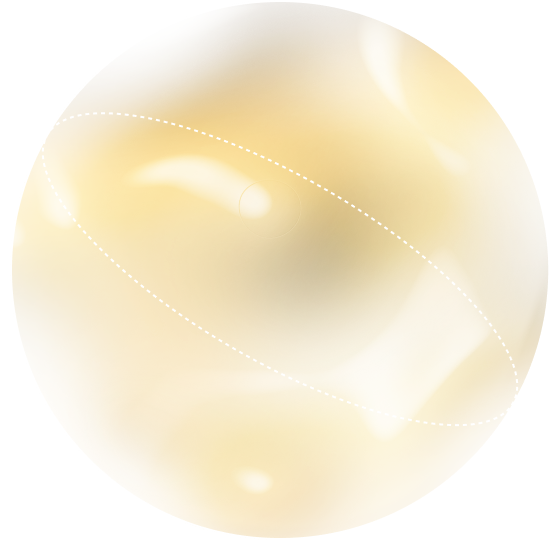
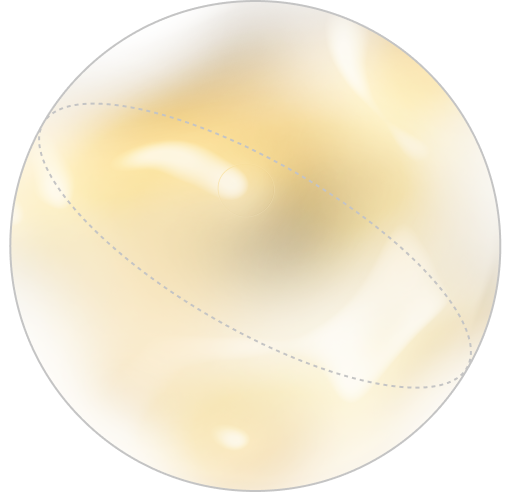
feat: create home-service-section

diff --git a/src/components/home/HomeServiceSection.vue b/src/components/home/HomeServiceSection.vue
@@ -1,0 +1,68 @@
+<script setup>
+import waveImage from '@/assets/image/global/frame_gold-wave.png'
+import imageCube from '@/assets/image/home/image_cube-white-background.png'
+import imagePentagon from '@/assets/image/home/image_pentagon-white-background.png'
+import imagKohakuAndSphere from '@/assets/image/home/image_kohaku-and-sphere.png'
+</script>
+<template>
+  <div class="home__section">
+    <div class="service-section">
+      <div class="service-section__title title-section">
+        <div class="title-section__image-and-title">
+          <img class="title-section__image" :src="waveImage" alt="wave" />
+          <h2 class="title-section__title font-1">SERVICE</h2>
+        </div>
+        <p class="title-section__text font-7">
+          你的創新概念準備起跑了嗎？讓琥白幫助您的願景步伐穩健的實現！
+        </p>
+      </div>
+
+      <div class="service-section__content content-section">
+        <div v-for="item in steps" :key="item.step" class="content-section__container">
+          <div class="content-section__image-and-line">
+            <img :src="item.image" :alt="item.title" class="content-section__image" />
+            <div v-if="item.step === 1" class="content-section__line"></div>
+          </div>
+
+          <div class="content-section__description">
+            <span class="description-section__step font-3">STEP{{ item.step }}</span>
+            <span class="description-section__title font-3">{{ item.title }}</span>
+            <span class="description-section__text font-7">{{ item.text }}</span>
+          </div>
+        </div>
+      </div>
+    </div>
+  </div>
+</template>
+
+<style src="@/assets/scss/home/_home-service-section.scss"></style>
+
+<script>
+export default {
+  name: 'HomeServiceSection',
+  data() {
+    return {
+      steps: [
+        {
+          step: 1,
+          title: '需求研究',
+          text: '首先深入了解需求，從場域、使用者與現實情境，找出問題核心！根據這些發現，為您量身打造解決方案。',
+          image: imageCube
+        },
+        {
+          step: 2,
+          title: '概念設計',
+          text: '進行腦力激盪，構建精彩的原型，接著持續調整與改良，確保這些點子能夠真正幫助您實現目標。',
+          image: imagePentagon
+        },
+        {
+          step: 3,
+          title: '落地實現',
+          text: '此刻，是時候付諸實踐了！我們整合數位技術，提供全端工程服務，確保每個細節，讓概念完美落地。',
+          image: imagKohakuAndSphere
+        }
+      ]
+    }
+  }
+}
+</script>

diff --git a/src/assets/scss/home/_home-service-section.scss b/src/assets/scss/home/_home-service-section.scss
@@ -1,0 +1,104 @@
+@use '../components/variable' as var;
+
+.service-section {
+  display: flex;
+  flex-direction: column;
+  padding: 60px max(16px, 5%, (100% - 1200px)/2) 75px max(16px, 5%, (100% - 1200px)/2);
+  overflow: hidden;
+  @media (max-width: 767px) {
+    padding-top: 56px;
+    padding-bottom: 65px;
+  }
+  &__title {
+    display: flex;
+    flex-direction: column;
+    margin-bottom: 76px;
+    @media (max-width: 767px) {
+      margin-bottom: 100px;
+    }
+  }
+  &__content {
+    display: flex;
+    gap: 10%;
+    @media (max-width: 767px) {
+      flex-direction: column;
+    }
+  }
+}
+
+.title-section {
+  &__image-and-title {
+    display: flex;
+    flex-direction: column;
+    width: min-content;
+  }
+  &__title {
+    margin-bottom: 8px;
+  }
+}
+
+.content-section {
+  @media (max-width: 767px) {
+    gap: 156px;
+  }
+  &__container {
+    display: flex;
+    flex-direction: column;
+    flex-basis: 0;
+    flex-grow: 1;
+    @media (max-width: 767px) {
+      flex-direction: column-reverse;
+      position: relative;
+    }
+  }
+  &__image-and-line {
+    position: relative;
+    @media (max-width: 767px) {
+      width: 45%;
+      max-width: 200px;
+      position: absolute;
+      right: 0;
+      top: -50%;
+    }
+  }
+  &__image {
+    aspect-ratio: 1 / 1;
+    position: relative;
+    z-index: 1;
+  }
+  &__line {
+    width: 100vw;
+    height: 1px;
+    background-color: map-get(var.$color, grey-2);
+    position: absolute;
+    top: 50%;
+    margin-left: min(-16px, -5vw, (100vw - 1200px) / -2);
+    @media (max-width: 767px) {
+      z-index: -1;
+      width: 1px;
+      height: 200vh;
+      top: -100vw;
+      margin-left: 50%;
+    }
+  }
+  &__description {
+    display: flex;
+    flex-direction: column;
+    margin-top: 36px;
+
+    @media (max-width: 767px) {
+      margin-top: 0;
+      width: 70%;
+      z-index: 1;
+    }
+  }
+}
+
+.description-section {
+  &__title {
+    margin-bottom: 8px;
+  }
+  &__text {
+    text-align: justify;
+  }
+}

diff --git a/src/views/HomeView.vue b/src/views/HomeView.vue
@@ -4,6 +4,7 @@
   <div class="home">
     <HomeTitleSection />
     <HomeAboutSection />
+    <HomeServiceSection />
   </div>
 </template>
 
@@ -12,11 +13,13 @@
 <script>
 import HomeTitleSection from '../components/home/HomeTitleSection.vue'
 import HomeAboutSection from '../components/home/HomeAboutSection.vue'
+import HomeServiceSection from '../components/home/HomeServiceSection.vue'
 
 export default {
   components: {
     HomeTitleSection,
-    HomeAboutSection
+    HomeAboutSection,
+    HomeServiceSection
   },
   data() {
     return {}
